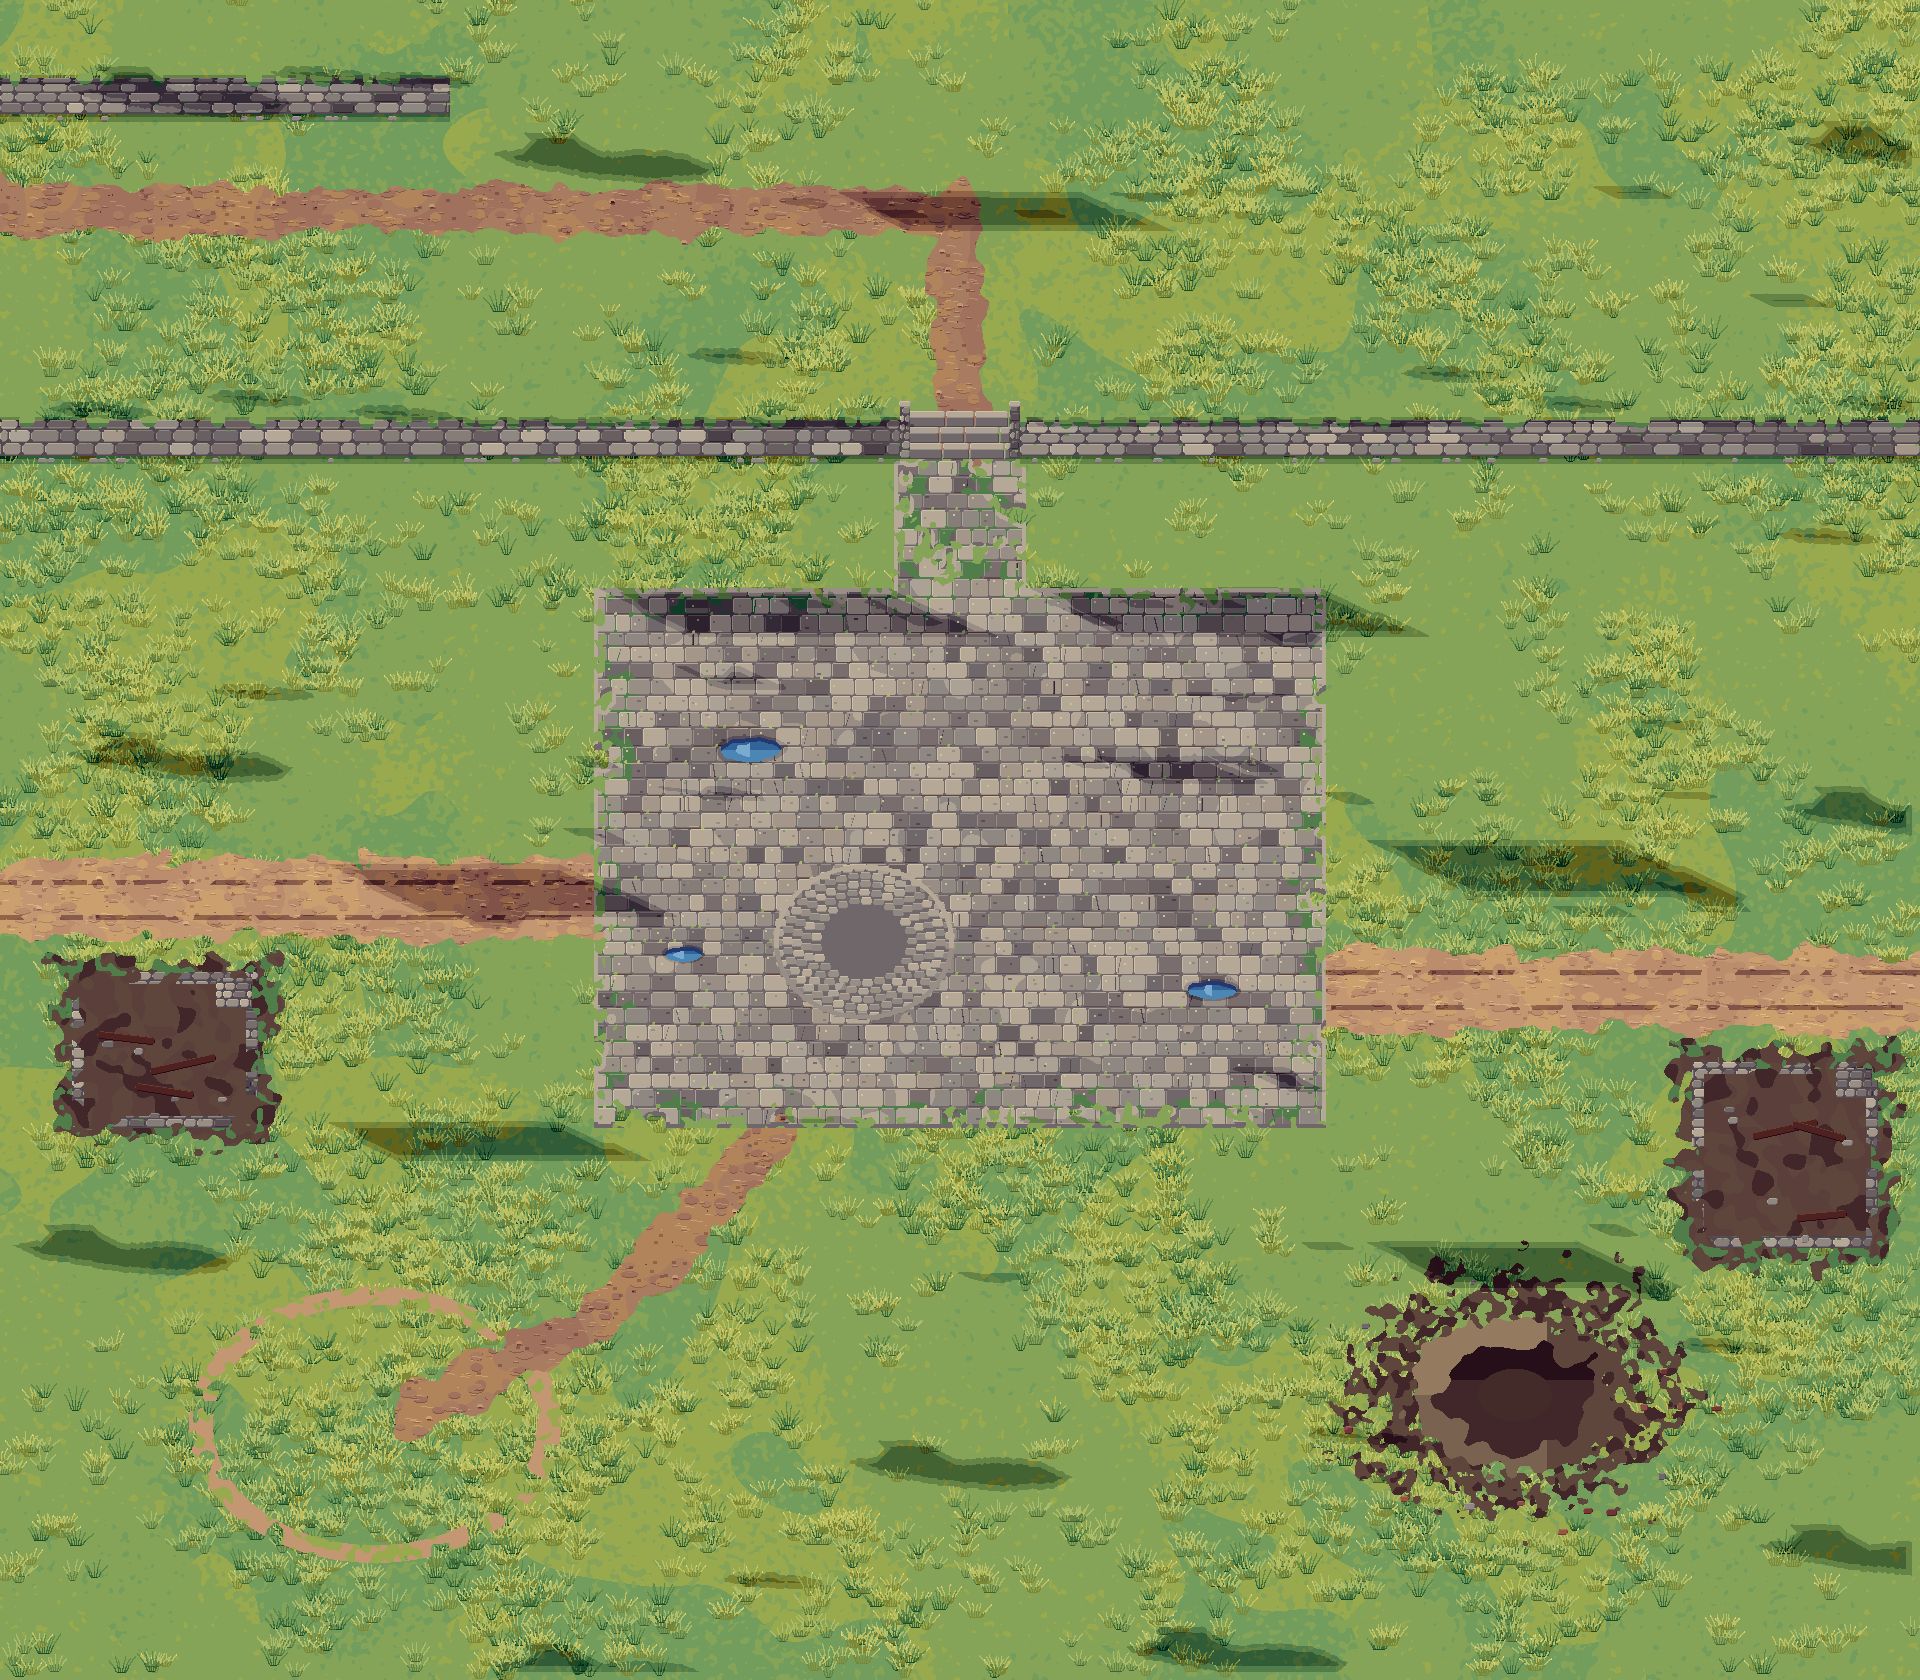
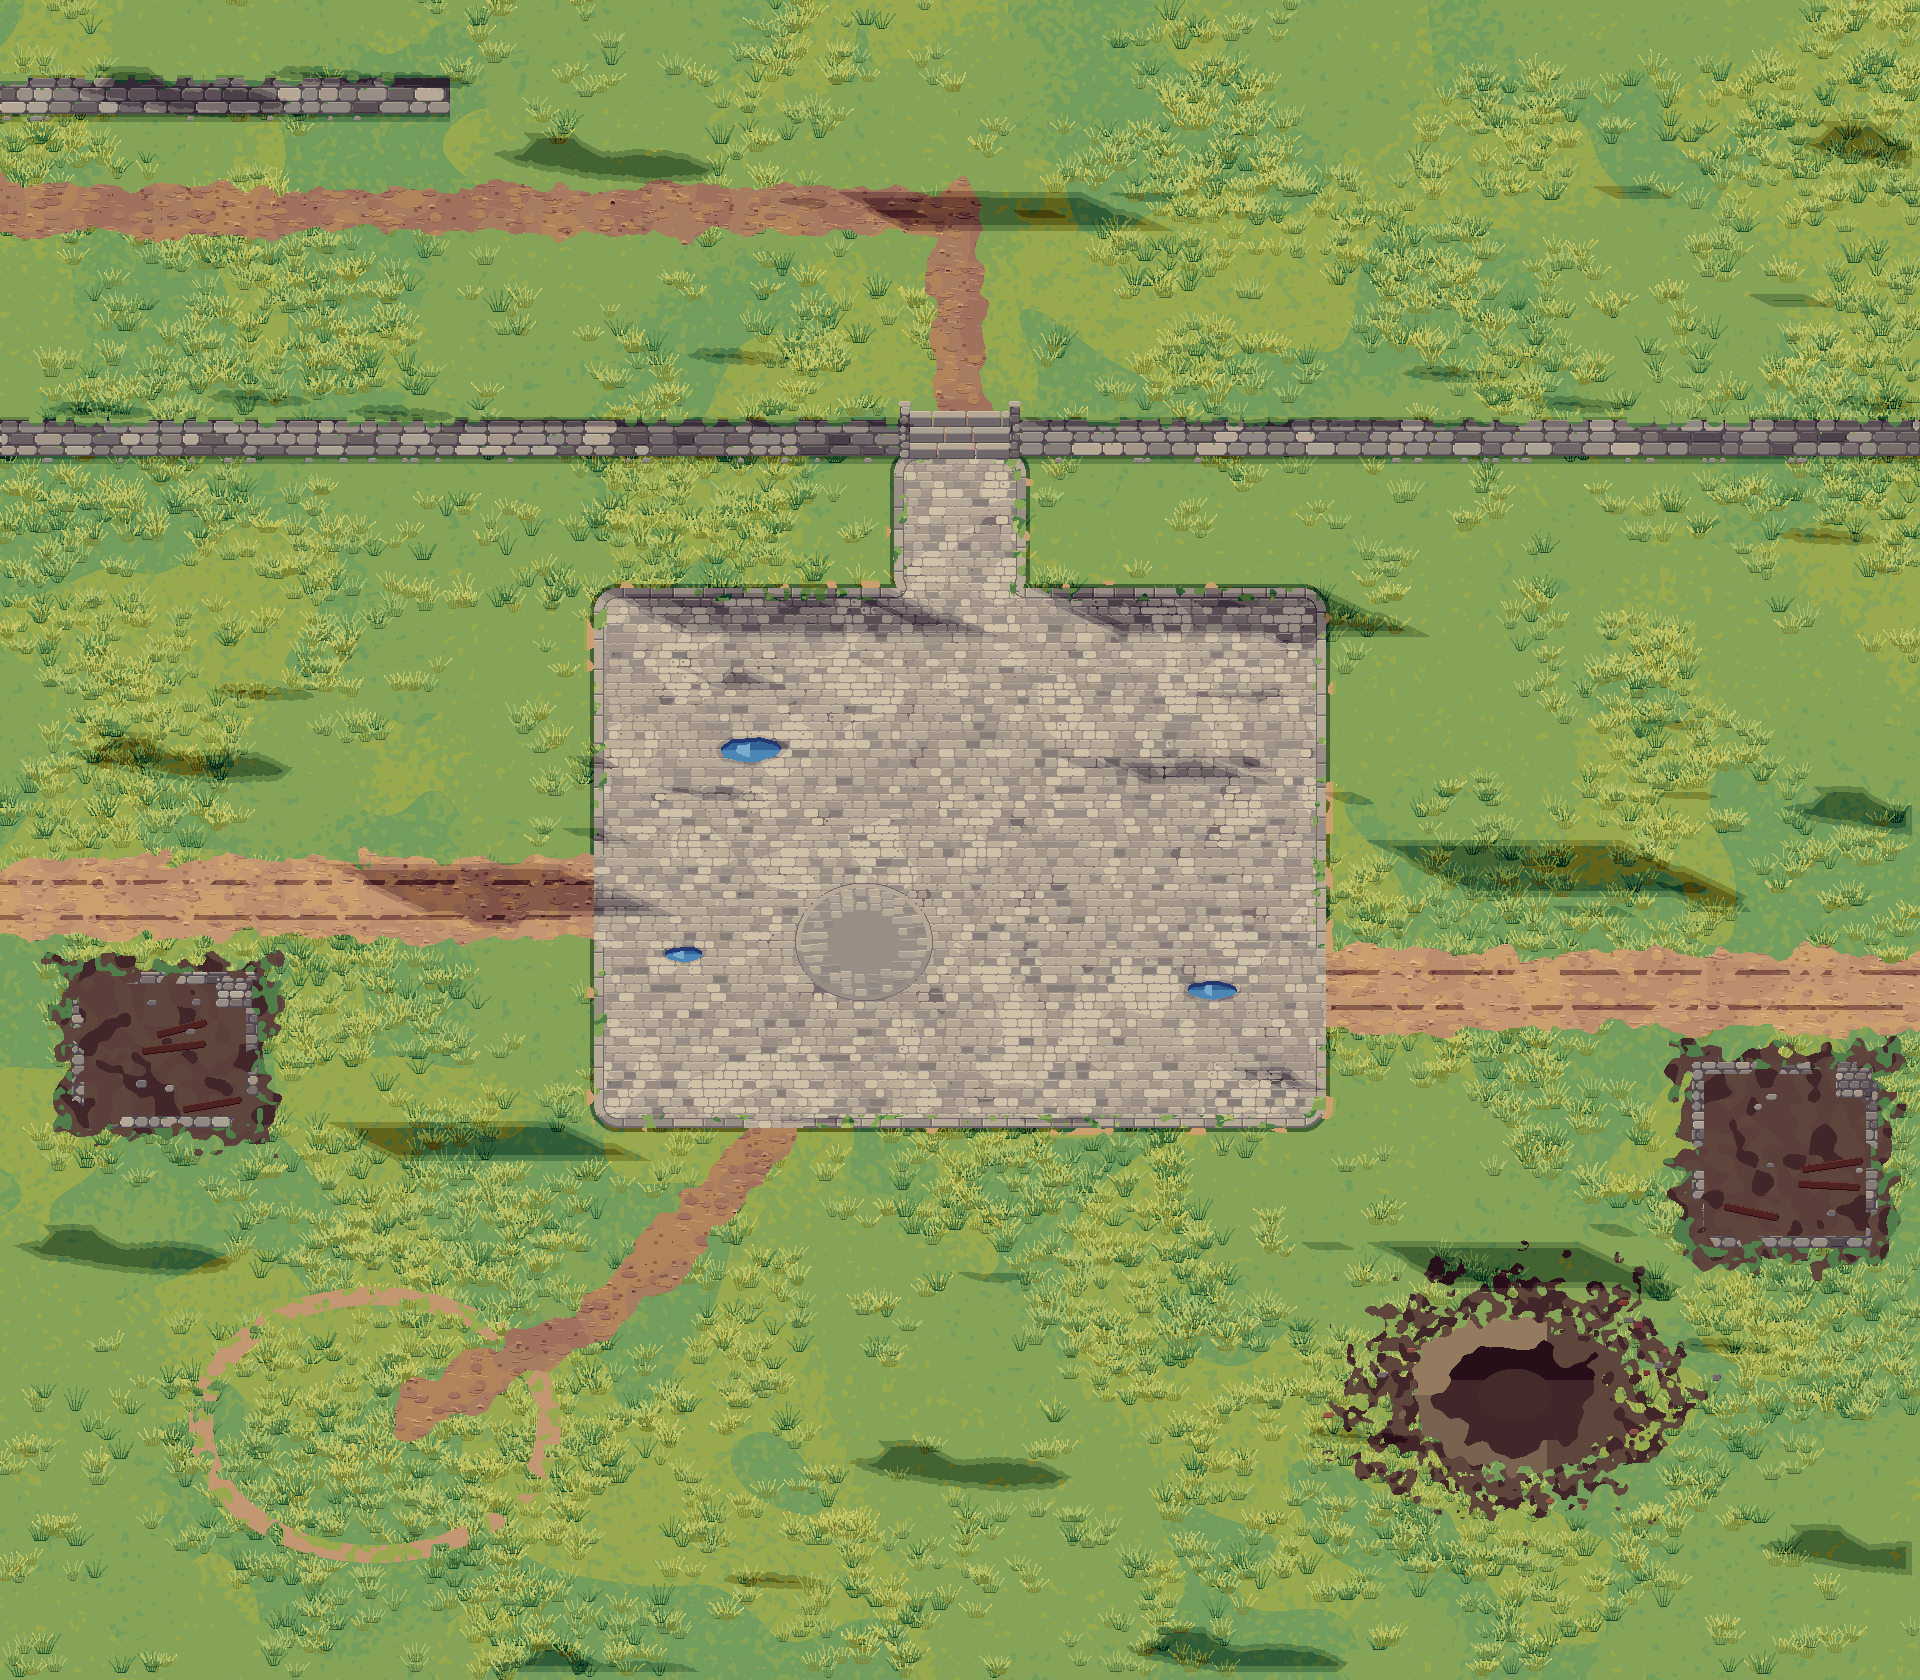
Crossroads review fixes: smaller calmer setts, a rounded kerb, a sturdier lamp
- the square: setts about half the size (3 to 5.6 by 2.4 to 3.2 world px), irregular joints, mostly one
  tone, joints a calm mid tone; the well's ring laid in the same setts inside an outlined kerb
- the square's edge: a course of long edging stones on a rounded outline (soft grid, one-cell
  corners), dark front on the south side, a contact line on the lawn, grass creeping over, worn
  earth spots; broken where a road comes in
- the shard lantern: 48 world px (about 1.9 people), stepped plinth, fluted foot, collared tapering
  post, scroll brackets, framed cage, pointed cap and finial
- merged origin/main

Claude-Session: https://claude.ai/code/session_01UudrmtYkicLNgZeuSjvjrK

diff --git a/scripts/art/native/town.py b/scripts/art/native/town.py
@@ -154,79 +154,94 @@ def build(plan: dict, out_dir: str, preview: str | None = None) -> dict:
         pathm |= m
 
     # --- places ------------------------------------------------------------------------------------
+    # the paved square: rounded on the soft grid (cell 8 world px, corner radius one cell)
     pave = np.zeros((H, W), bool)
     for r in art.get('paving', []):
-        pave |= rect_m(r)
-    pave &= ~(noise(2.0, 31, 1.0) < -1.6) | rect_m(art.get('paving', [[0, 0, 0, 0]])[0], grow=-6)
+        x, y, w, h = r
+        rad = 8.0
+        cx_ = np.clip(WX, x + rad, x + w - rad)
+        cy_ = np.clip(WY, y + rad, y + h - rad)
+        pave |= rect_m(r) & ((WX - cx_) ** 2 + (WY - cy_) ** 2 <= rad * rad)
     if pave.any():
-        flags = np.full((H, W), C('stone', 2), np.int32)
+        # setts: small, irregular, worn; calm (few dark joints) so people and props read on top
+        flags = np.full((H, W), C('stone_warm', 3), np.int32)
         y = 0
-        rowi = 0
         while y < H:
-            rh = q(rng.uniform(4.6, 6.4))
-            x = -int(rng.integers(0, q(6)))
+            rh = q(rng.uniform(2.4, 3.2))
+            x = -int(rng.integers(0, q(4)))
             while x < W:
-                sw = q(rng.uniform(4.8, 8.6))
-                fam = ('stone', 'stone_warm', 'stone_warm', 'stone_cool')[int(rng.integers(0, 4))]
-                t = int(rng.choice([3, 3, 4, 4, 2]))
-                V.blk(flags, x, y, x + sw - 1, y + rh - 1, fam, t, cut=1, top=1, left=1, bot=-1, right=0)
-                r_ = rng.random()
-                if r_ < 0.10:     # a cracked flag
-                    cx0 = x + int(rng.integers(2, max(3, sw - 4)))
-                    V.bar(flags, cx0, y + 1, cx0 + int(rng.integers(-q(1.5), q(1.5) + 1)), y + rh - 2, 0.6, fam, max(1, t - 2))
-                elif r_ < 0.45:   # a chip or a worn hollow
-                    cx0 = x + int(rng.integers(2, max(3, sw - 5)))
-                    cy0 = y + int(rng.integers(2, max(3, rh - 4)))
-                    V.fill(flags, cx0, cy0, cx0 + int(rng.integers(2, 5)), cy0 + 2, C(fam, max(1, t - 1)))
-                elif r_ < 0.55:   # dirt washed into the joint below it
-                    V.fill(flags, x, y + rh - 1, x + sw, y + rh, C('earth', 2))
-                if rng.random() < 0.5:   # a pale fleck on the lit side, a lichen spot
-                    cx0 = x + int(rng.integers(1, max(2, sw // 2)))
-                    cy0 = y + int(rng.integers(1, max(2, rh // 2)))
-                    V.fill(flags, cx0, cy0, cx0 + 2, cy0 + 2,
-                           C(('stone_warm', 'grass_cool', 'stone_warm')[int(rng.integers(0, 3))], int(rng.choice([5, 3, 5]))))
-                if rng.random() < 0.15:  # moss tuft in the joint at the flag's foot
-                    cx0 = x + int(rng.integers(0, max(1, sw - 4)))
-                    V.fill(flags, cx0, y + rh - 2, cx0 + 3, y + rh, C('grass', 3))
-                    V.fill(flags, cx0 + 1, y + rh - 3, cx0 + 3, y + rh - 2, C('grass', 4))
+                sw = q(rng.uniform(3.0, 5.6))
+                fam = ('stone_warm', 'stone_warm', 'stone_warm', 'stone_cool')[int(rng.integers(0, 4))]
+                t = int(rng.choice([4, 4, 4, 4, 4, 3, 5]))
+                jx = int(rng.integers(0, 2))         # irregular joints: some setts butt tight
+                V.blk(flags, x, y, x + sw - jx, y + rh - 1, fam, t, cut=1, top=1, left=0, bot=0, right=0)
+                if rng.random() < 0.06:
+                    V.fill(flags, x + 2, y + 2, x + 4, y + 4, C(fam, max(2, t - 1)))   # a worn dip
                 x += sw
             y += rh
-            rowi += 1
+        # the joints a calm mid tone (not a dark grid), darker only in a few soft patches
+        jm = flags == C('stone_warm', 3)
+        flags[jm & (noise(2.5, 36) > 1.8)] = C('stone_warm', 2)
         cv[pave] = flags[pave]
-        # a ring of setts round the well: small blocks laid in circles
+        # worn smooth where feet go: paler soft patches
+        wear = pave & (noise(5.0, 33) > 0.8) & (cv % 8 == 4)
+        cv[wear] = cv[wear] + 1
+        # a ring of setts round the well, the same size, laid in circles inside a kerb
         for sr in art.get('setts', []):
             cx, cy, r0, r1 = sr
             disc = (((WX - cx) / r1) ** 2 + ((WY - cy) / (r1 * 0.86)) ** 2) < 1.0
-            cv[disc] = C('stone', 2)
+            cv[disc] = C('stone_warm', 3)
             rr = r0
-            while rr < r1:
-                n = max(8, int(2 * math.pi * rr / 4.0))
+            while rr < r1 - 2.5:
+                n = max(8, int(2 * math.pi * rr / 4.4))
                 ph = rng.uniform(0, 1)
                 for k in range(n):
                     a0 = 2 * math.pi * (k + ph) / n
                     sx, sy = cx + math.cos(a0) * rr, cy + math.sin(a0) * rr * 0.86
-                    V.blk(cv, q(sx - 1.8), q(sy - 1.3), q(sx + 1.8), q(sy + 1.3),
-                          ('stone_warm', 'stone')[k % 2], 3 + int(rng.random() < 0.4), cut=1, right=0, left=0)
-                rr += 3.2
-            kerb_r = disc & ~((((WX - cx) / (r1 - 1.6)) ** 2 + ((WY - cy) / ((r1 - 1.6) * 0.86)) ** 2) < 1.0)
+                    V.blk(cv, q(sx - 1.9), q(sy - 1.2), q(sx + 1.9), q(sy + 1.2),
+                          ('stone_warm', 'stone')[k % 2], int(rng.choice([3, 4, 4])), cut=1, top=1, left=0, bot=0, right=0)
+                rr += 2.8
+            kerb_r = disc & ~((((WX - cx) / (r1 - 2.0)) ** 2 + ((WY - cy) / ((r1 - 2.0) * 0.86)) ** 2) < 1.0)
             cv[kerb_r] = C('stone_warm', 4)
-            cv[kerb_r & (WY > cy + 2)] = C('stone_warm', 3)
-        # worn smooth where feet go: the centre of the square a tone lighter in soft patches
-        wear = pave & (noise(5.0, 33) > 0.9) & (cv % 8 == 3)
-        cv[wear] = cv[wear] + 1
-        # grass and moss in the joints near the edge, a kerb where the flags meet the lawn
+            cv[kerb_r & (WY > cy + 3)] = C('stone_warm', 3)
+            rim_in = kerb_r & ~ndi.binary_erosion(disc, iterations=q(2.0) + 1)
+            outer_line = disc & ~ndi.binary_erosion(disc, iterations=1)
+            cv[outer_line] = C('stone', 2)
+        # the kerb: a course of long edging stones round the square, lit on top, a dark front on the
+        # south side, broken where a road comes in; grass creeping over it, worn spots outside
         edge_d = ndi.distance_transform_edt(pave) / D
-        joints = pave & (edge_d < 9) & (cv % 8 <= 2) & (noise(1.5, 34) > 0.0)
-        cv[joints] = C('grass_cool', 2)
-        kerb = pave & (edge_d < 1.6)
-        cv[kerb] = C('stone_warm', 4)
-        below = np.zeros_like(pave)
-        below[1:] = pave[:-1]
-        kerb_front = kerb & ~np.roll(pave, -q(2), axis=0)
-        cv[kerb_front] = C('stone', 2)
-        # the lawn breaking over the kerb in tufts
-        fray = (kerb | (pave & (edge_d < 4))) & (noise(0.9, 35) > 0.7)
-        cv[fray] = C('grass', 3)
+        out_d = ndi.distance_transform_edt(~pave) / D
+        kerb = pave & (edge_d < 3.4) & ~ndi.binary_dilation(pathm, iterations=q(2))
+        gy, gx = np.gradient(edge_d)
+        vertical = np.abs(gx) > np.abs(gy)
+        kh = np.full((H, W), C('stone', 2), np.int32)
+        kv = np.full((H, W), C('stone', 2), np.int32)
+        x = 0
+        while x < W:
+            L_ = q(rng.uniform(6, 10))
+            V.blk(kh, x, 0, x + L_ - 1, H, 'stone_warm', int(rng.choice([4, 4, 3])), cut=0, top=0, left=1, bot=0, right=-1)
+            x += L_
+        y = 0
+        while y < H:
+            L_ = q(rng.uniform(6, 10))
+            V.blk(kv, 0, y, W, y + L_ - 1, 'stone_warm', int(rng.choice([4, 4, 3])), cut=0, top=1, left=0, bot=-1, right=0)
+            y += L_
+        kcode = np.where(vertical, kv, kh)
+        cv[kerb] = kcode[kerb]
+        inner = kerb & (edge_d >= 3.4 - 1.0 / D)
+        cv[inner] = C('stone', 2)                              # the joint between kerb and setts
+        south = kerb & (gy < -0.2) & (edge_d < 1.0)
+        cv[south] = C('stone', 2)                              # the kerb's dark front
+        # outside: a contact line on the lawn, grass tufts over the kerb, worn earth here and there
+        contact = (out_d > 0) & (out_d < 1.4) & ~pathm
+        cv[contact] = step(cv[contact], -2)
+        tuft = pave & (edge_d < 4.5) & (noise(1.1, 37) > 0.85) & ~ndi.binary_dilation(pathm, iterations=q(2))
+        cv[tuft] = C('grass', 3)
+        cv[tuft & (noise(0.7, 38) > 0.5)] = C('grass_cool', 2)
+        cv[tuft & (noise(0.7, 40) > 1.0)] = C('grass', 4)
+        worn = (out_d > 0) & (out_d < 3.5) & (noise(2.0, 39) > 1.3) & ~pathm
+        cv[worn] = C('path_warm', 4)
+        cv[worn & (out_d > 2.5)] = C('grass_warm', 3)
 
     # puddles left by the storm: still water in a hollow, the sky in it, a dark north rim
     for k_, (px, py, prx, pry) in enumerate(art.get('puddles', [])):

diff --git a/scripts/art/native/village.py b/scripts/art/native/village.py
@@ -1046,33 +1046,58 @@ def p_well(w, h, seed, choked=False):
 
 
 def p_lantern(w, h, seed, lit=False):
-    """The shard lantern: a tall iron post on a stone foot, a glass cage on top with a slate hood.
-    Lit, the woodland's shard glows pale blue in it."""
+    """The shard lantern: a street lamp 46 world px tall (about 1.8 people, size-guide.md: lamps 50 to
+    65, kept low on the square): a stepped stone plinth, a fluted iron foot, a tapering post with
+    collars, scroll brackets under a glass cage with four frame bars, a pointed cap and a finial.
+    Lit, the woodland's shard glows pale blue in the cage."""
     rng = np.random.default_rng(seed)
-    p = _pic(w, h, up=58, side=6)
+    p = _pic(w, h, up=50, side=8)
     a, cx, yb = p.a, p.ax, p.ay
-    blk(a, cx - q(5), yb - q(5), cx + q(5), yb + 1, 'stone_warm', 3, cut=2)
-    blk(a, cx - q(3.5), yb - q(8), cx + q(3.5), yb - q(5), 'stone', 4, cut=1)
-    beam(a, cx - q(1.4), yb - q(46), cx + q(1.4), yb - q(8), rng, 'iron', 3)
-    for yy in (yb - q(20), yb - q(34)):
-        blk(a, cx - q(2.2), yy, cx + q(2.2), yy + q(1.6), 'iron', 4, cut=0)
-    gx0, gx1 = cx - q(5), cx + q(5)
-    gy0, gy1 = yb - q(58), yb - q(46)
-    blk(a, gx0 - q(1), gy1, gx1 + q(1), gy1 + q(2), 'iron', 3, cut=1)
+    # plinth: two stepped stones
+    blk(a, cx - q(6.5), yb - q(3.2), cx + q(6.5), yb + 1, 'stone_warm', 3, cut=2)
+    blk(a, cx - q(4.8), yb - q(6.0), cx + q(4.8), yb - q(3.2), 'stone_warm', 4, cut=1)
+    # the fluted foot: a bell of iron with lit flutes
+    Y, X = np.mgrid[0:a.shape[0], 0:a.shape[1]] + 0.5
+    ft, fb = yb - q(14), yb - q(6)
+    foot = (Y >= ft) & (Y < fb) & (np.abs(X - cx) < q(1.8) + (Y - ft) / max(1, fb - ft) * q(2.0))
+    tt = np.full(a.shape, 2)
+    tt[foot & ((((X - cx) / max(1, q(1.3))).astype(int)) % 2 == 0)] = 3
+    tt[foot & (X < cx - q(1.5))] = 4
+    a[foot] = FI['iron'] * 8 + tt[foot]
+    blk(a, cx - q(2.6), ft - q(1.4), cx + q(2.6), ft, 'iron', 3, cut=0)
+    # the post, tapering, with two collars
+    post = (Y >= yb - q(38)) & (Y < ft - q(1.4)) & (np.abs(X - cx) < q(1.5) - (ft - Y) / max(1, q(26)) * q(0.4))
+    tt = np.full(a.shape, 2)
+    tt[X < cx - q(0.4)] = 4
+    tt[X > cx + q(0.7)] = 1
+    a[post] = FI['iron'] * 8 + tt[post]
+    for yy in (yb - q(24), yb - q(37)):
+        blk(a, cx - q(2.2), yy, cx + q(2.2), yy + q(1.5), 'iron', 3, cut=0)
+    # scroll brackets under the cage
+    for sx in (-1, 1):
+        bar(a, cx + sx * q(1.2), yb - q(36), cx + sx * q(4.6), yb - q(39.5), max(1.0, q(0.5)), 'iron', 3 if sx < 0 else 2)
+        blob(a, ellipse_mask(a.shape, cx + sx * q(4.6), yb - q(36.8), q(1.1), q(1.1)), 'iron', 2)
+    # the cage
+    gx0, gx1 = cx - q(4.5), cx + q(4.5)
+    gy0, gy1 = yb - q(48), yb - q(40)
+    blk(a, gx0 - q(1.2), gy1, gx1 + q(1.2), gy1 + q(1.6), 'iron', 3, cut=1)
+    cage = (Y >= gy0) & (Y < gy1) & (np.abs(X - cx) < q(4.5) - (gy1 - Y) / max(1, gy1 - gy0) * q(0.8))
     if lit:
-        fill(a, gx0, gy0, gx1, gy1, code('sky', 4))
-        blob(a, ellipse_mask(a.shape, cx, (gy0 + gy1) / 2, q(2.2), q(3.6)), 'snow', 5, top=0, left=0, bot=0, right=0)
-        fill(a, gx0, gy0, gx1, gy0 + q(2), code('sky', 5))
+        a[cage] = code('sky', 4)
+        a[cage & (Y < gy0 + q(2))] = code('sky', 5)
+        blob(a, ellipse_mask(a.shape, cx, (gy0 + gy1) / 2 + q(0.5), q(1.8), q(2.8)), 'snow', 5, top=0, left=0, bot=0, right=0)
     else:
-        fill(a, gx0, gy0, gx1, gy1, code('slate_cool', 1))
-        fill(a, gx0, gy0, gx0 + q(3), gy1, code('slate', 3))
-        fill(a, gx0 + q(3), gy0, gx0 + q(4), gy1, code('slate', 2))
-    for xx in (gx0, cx - 1, gx1 - q(1)):
-        fill(a, xx, gy0, xx + max(2, q(1)), gy1, code('iron', 2))
-    hm = roof_mask(a.shape, gx0 - q(2.5), gx1 + q(2.5), gy0 - q(5), gy0 + q(0.5), hip=q(4))
-    a[hm] = code('iron', 3)
-    a[hm & _rect(a.shape, 0, 0, cx, a.shape[0])] = code('iron', 4)
-    fill(a, cx - q(1), gy0 - q(7), cx + q(1), gy0 - q(4.5), code('iron', 3))
+        a[cage] = code('slate_cool', 1)
+        a[cage & (X < cx - q(1.5))] = code('slate', 3)
+        a[cage & (X >= cx - q(1.5)) & (X < cx - q(0.8))] = code('slate', 2)
+    for xx in (cx - q(4.0), cx - 1, cx + q(3.4)):
+        a[cage & (X >= xx) & (X < xx + max(2, q(0.7)))] = code('iron', 2)
+    # the cap: a pointed hood, lit west, a finial
+    cap = (Y >= gy0 - q(5)) & (Y < gy0) & (np.abs(X - cx) < q(6) * (Y - (gy0 - q(5.5))) / q(5.5))
+    a[cap] = code('iron', 3)
+    a[cap & (X < cx - q(0.6))] = code('iron', 4)
+    a[cap & (Y >= gy0 - q(1))] = code('iron', 2)
+    blob(a, ellipse_mask(a.shape, cx, gy0 - q(6.2), q(1.1), q(1.1)), 'iron', 3)
     return finish(p)
 
 
